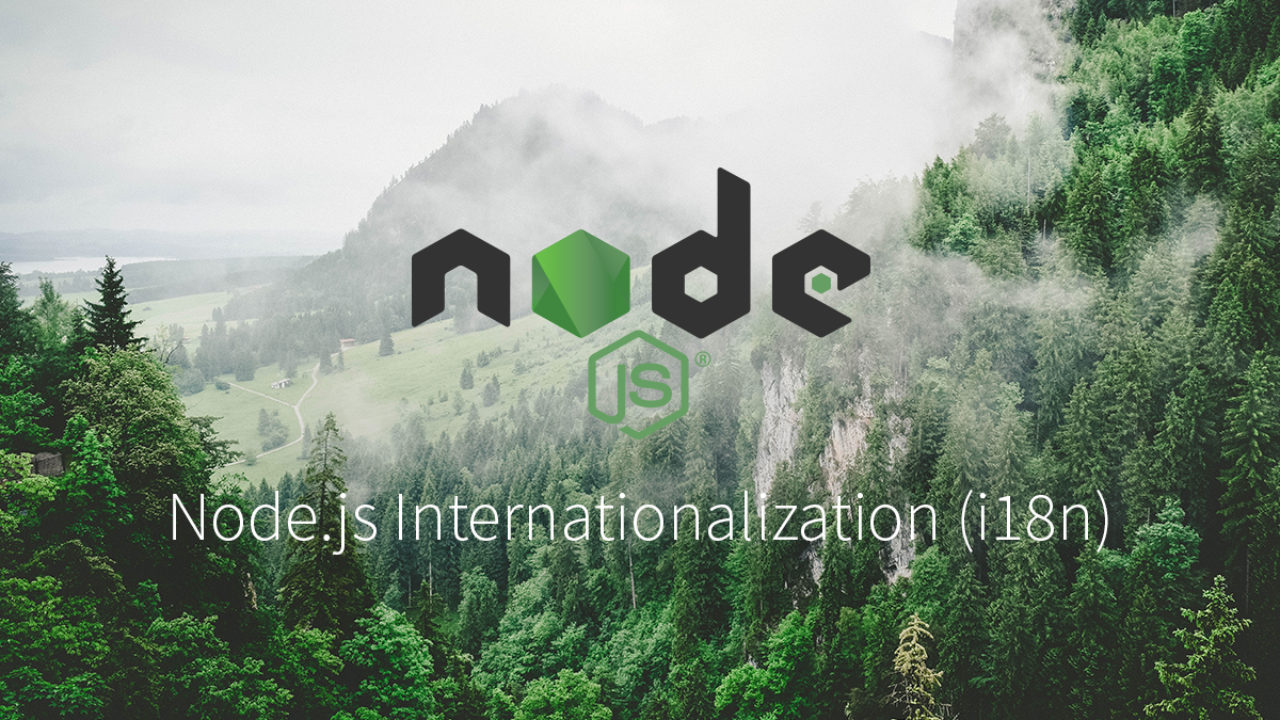
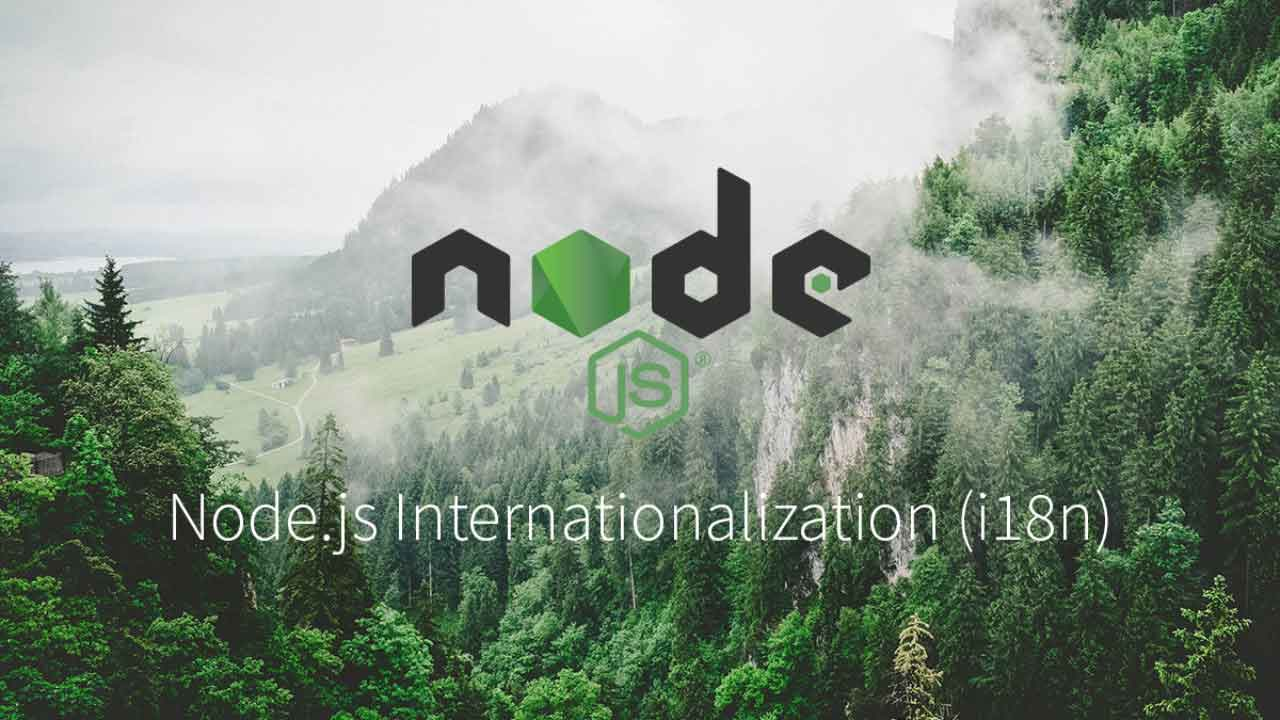
optimazed images & added animation on active header link

diff --git a/client/pages/index.vue b/client/pages/index.vue
@@ -217,12 +217,12 @@ export default {
         },
         {
           title: 'CSS',
-          image: require('@/assets/images/css.png'),
+          image: require('@/assets/images/css.jpg'),
           desc: 'Cascading Style Sheets (CSS) is a style sheet language used for describing the presentation of a document written in a markup language such as HTML. CSS is a cornerstone technology of the World Wide Web, alongside HTML and JavaScript.'
         },
         {
           title: 'JavaScript',
-          image: require('@/assets/images/javascript.png'),
+          image: require('@/assets/images/javascript.jpg'),
           desc: 'JavaScript often abbreviated as JS, is a programming language that conforms to the ECMAScript specification. JavaScript is high-level, often just-in-time compiled, and multi-paradigm. It has curly-bracket syntax, dynamic typing, prototype-based object-orientation, and first-class functions.'
         },
         {
@@ -232,7 +232,7 @@ export default {
         },
         {
           title: 'Bootstrap',
-          image: require('@/assets/images/bootstrap.png'),
+          image: require('@/assets/images/bootstrap.jpg'),
           desc: 'Bootstrap is a free and open-source CSS framework directed at responsive, mobile-first front-end web development. It contains CSS- and (optionally) JavaScript-based design templates for typography, forms, buttons, navigation, and other interface components.'
         },
         {

diff --git a/client/pages/process/index.vue b/client/pages/process/index.vue
@@ -88,12 +88,12 @@ export default {
         },
         {
           title: 'CSS',
-          image: require('@/assets/images/css.png'),
+          image: require('@/assets/images/css.jpg'),
           desc: 'Cascading Style Sheets (CSS) is a style sheet language used for describing the presentation of a document written in a markup language such as HTML. CSS is a cornerstone technology of the World Wide Web, alongside HTML and JavaScript.'
         },
         {
           title: 'JavaScript',
-          image: require('@/assets/images/javascript.png'),
+          image: require('@/assets/images/javascript.jpg'),
           desc: 'JavaScript often abbreviated as JS, is a programming language that conforms to the ECMAScript specification. JavaScript is high-level, often just-in-time compiled, and multi-paradigm. It has curly-bracket syntax, dynamic typing, prototype-based object-orientation, and first-class functions.'
         },
         {
@@ -103,7 +103,7 @@ export default {
         },
         {
           title: 'Bootstrap',
-          image: require('@/assets/images/bootstrap.png'),
+          image: require('@/assets/images/bootstrap.jpg'),
           desc: 'Bootstrap is a free and open-source CSS framework directed at responsive, mobile-first front-end web development. It contains CSS- and (optionally) JavaScript-based design templates for typography, forms, buttons, navigation, and other interface components.'
         },
         {

diff --git a/client/components/EmailMe.vue b/client/components/EmailMe.vue
@@ -1,7 +1,7 @@
 <template>
   <div class="email-me">
     <a class="d-block" href="mailto:nemanja.danev.93@gmail.com">
-      <img src="@/assets/images/gmail.png" alt>
+      <img src="@/assets/images/gmail.jpg" alt>
     </a>
   </div>
 </template>
@@ -34,7 +34,7 @@ export default {}
 
 .email-me img {
   width: 50px;
-  height: 50px;
+  height: 40px;
 }
 
 @media (max-width: 767px) {
@@ -47,7 +47,7 @@ export default {}
 
   .email-me img {
     width: 30px;
-    height: 30px;
+    height: 20px;
   }
 }
 </style>

diff --git a/client/components/Header.vue b/client/components/Header.vue
@@ -212,6 +212,20 @@ header nav {
   color: #fff;
   position: relative;
   font-size: .9rem;
+  transition: all .25s;
+}
+
+.header-list-link.nuxt-link-exact-active.nuxt-link-active:before {
+  position: absolute;
+  content: "";
+  left: 1rem;
+  bottom: 10px;
+  width: 30%;
+  height: 4px;
+  background-color: #f33c7a;
+  z-index: 1;
+  margin: 0 auto;
+  transition: all .25s ease-in;
 }
 
 .header-list-link:hover {

diff --git a/client/content/blog/front-end-development.md b/client/content/blog/front-end-development.md
@@ -2,12 +2,12 @@
 title: Front end development
 desc: Lorem Ipsum is simply dummy text of the printing and typesetting industry.
 slug: front-end-development
-image: frontend-web-development.png
+image: frontend-web-development.jpg
 ---
 
 # Front end development
 
-![Front End Development](../../_nuxt/assets/images/frontend-web-development.png)
+![Front End Development](../../_nuxt/assets/images/frontend-web-development.jpg)
 
 Front-end web development is the development of the graphical user interface of a website, through the use of HTML, CSS, and JavaScript, so that users can view and interact with that website.
 
